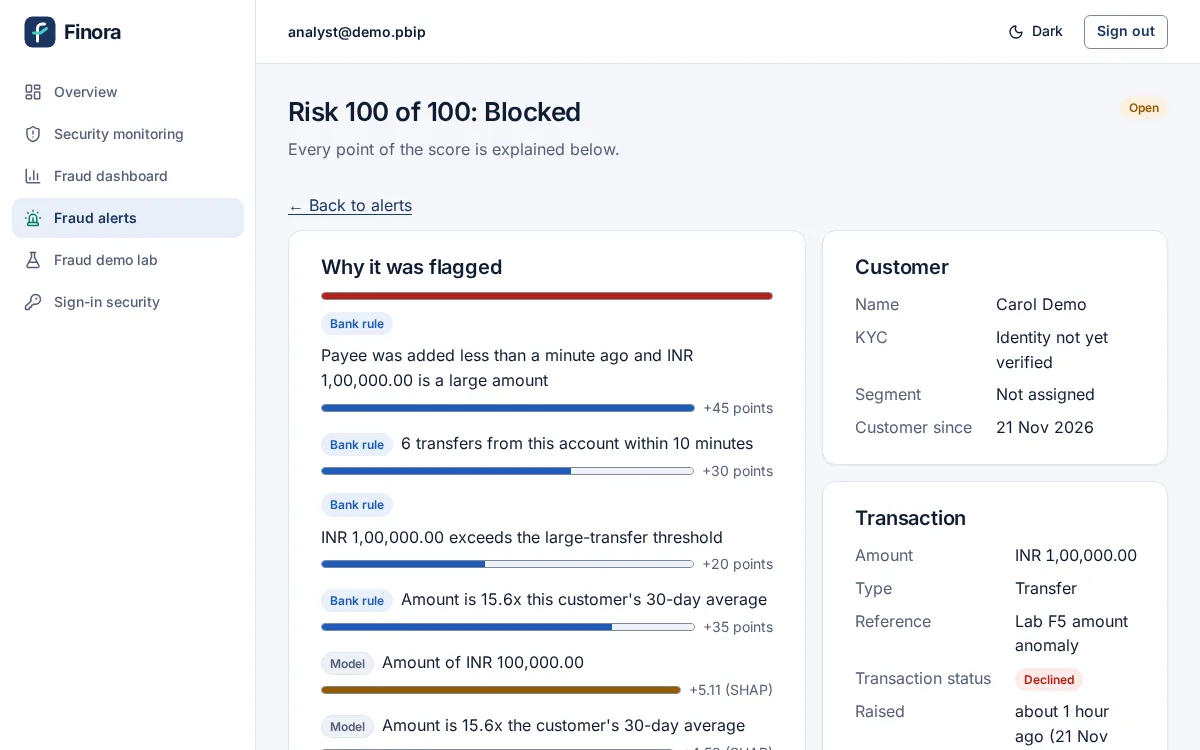
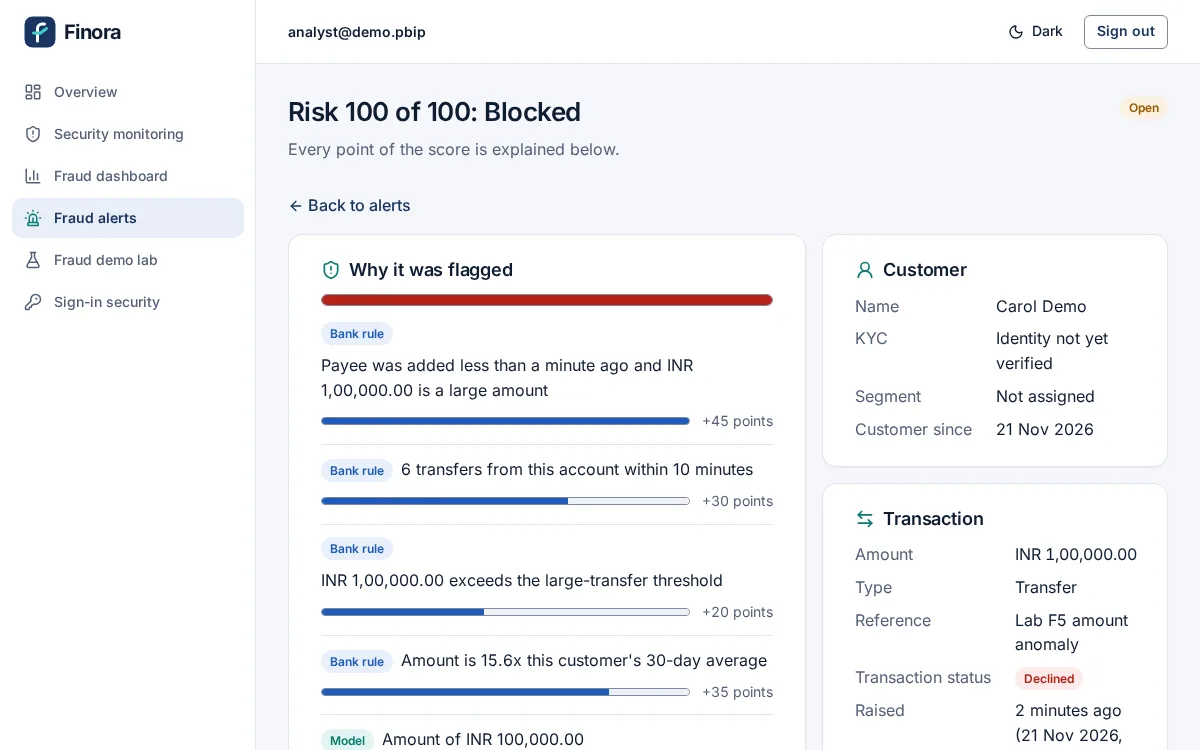
feat(web): Finora v1.2.0 polish: after screenshots, landing images on the final UI, accessibility fix, release notes

diff --git a/demo/record/capture-screens.ts b/demo/record/capture-screens.ts
@@ -248,8 +248,10 @@ test("fraud analyst pages", async ({ page }) => {
       then: async (p) => {
         await p.getByRole("button", { name: "All", exact: true }).click(); // the open queue may be empty
         await quiet(p);
+        // Wait for the list to settle: a table of alerts, or the empty state (then the list is shown).
+        await p.getByRole("table").or(p.getByText("No alerts.")).first().waitFor();
         const first = p.getByRole("table").getByRole("link").first();
-        if ((await first.count()) === 0) return; // an empty queue: the list screenshot says so
+        if ((await first.count()) === 0) return;
         await first.click();
         await expect(p.getByRole("heading", { level: 1, name: /^Risk \d+ of 100/ })).toBeVisible();
         await settle(p);

diff --git a/apps/web/src/pages/staff/SecurityMonitoring.tsx b/apps/web/src/pages/staff/SecurityMonitoring.tsx
@@ -186,7 +186,7 @@ export function HighRiskCustomersPanel({
                     {c.alert_id ? (
                       <Link
                         to={`/staff/fraud/${c.alert_id}`}
-                        aria-label={`Open the alert for customer ${c.customer_id.slice(0, 8)}`}
+                        aria-label={`${c.open_alerts > 0 ? "Review" : "View"}: Open the alert for customer ${c.customer_id.slice(0, 8)}`}
                       >
                         {c.open_alerts > 0 ? "Review" : "View"}
                       </Link>

diff --git a/docs/design/ui-redesign-progress.md b/docs/design/ui-redesign-progress.md
@@ -31,7 +31,7 @@ system is in [ui-design-system.md](ui-design-system.md).
 | 3 Customer pages | done | #525 |
 | 4 Staff pages | done | #523 |
 | 4b Backend display text | done | #519 |
-| 5 Polish, accessibility, `make check`, docs, v1.2.0, deploy | - | - |
+| 5 Polish, accessibility, `make check`, docs, v1.2.0, deploy | in progress | this PR |
 | Re-record walkthrough, demo cut, slide screenshots | - | - |
 
 ## Phase 0 (21 Nov 2026)
@@ -117,6 +117,31 @@ only) and merged in turn, updating the other branches by merging `main`.
   the rules the CSS-reading tests name stay where the tests read them.
 - **Selectors the recorders and E2E rely on** were kept, including the secret blur targets
   (`code.secret`, `ul.recovery-codes`, `a[href^="otpauth:"]`) so MFA keys never reach a recording.
+
+## Phase 5 (21 Nov 2026): polish, accessibility, docs
+
+- **After screenshots:** `docs/design/screenshots/after/`, the same 32 screens x 2 widths and file names as the
+  before set, taken on a freshly seeded stack built from `main` with the fraud lab's F1, F2 and F5 run first.
+  The landing page's product screenshots were re-taken on the final UI ("landing assets").
+- **axe-core 4.14 (WCAG 2.0/2.1 A and AA rules), 31 views x light and dark = 62 scans** on the local stack (axe
+  installed in a scratch folder, not a project dependency): **no colour-contrast violations** in either theme;
+  30 scans clean. One rule, *label in name* (2.5.3), was reported on four controls:
+  - security-monitoring "Review"/"View" links (named "Open the alert for customer ..."): **fixed**, the name now
+    starts with the visible word (the test's name match still holds);
+  - **notification bell:** the only visible text is the unread count, which the name contains ("Notifications
+    (2 unread)"); axe's heuristic still flags it. Kept: the name and the badge text are asserted by tests;
+  - **"Ask Finora" button** (named "Ask the Finora assistant") and the fraud lab's **"Run scenario"** buttons (named
+    "Run F1 APP scam" ...): **not changed.** Fixing them changes an accessible name or a visible text that unit
+    tests, the E2E journey and the demo recorder assert, which the owner's rule 3 forbids without a decision. Open
+    for the owner: rename the assistant button to "Ask Finora" and the lab buttons' text to "Run F1"..., with the
+    matching test updates.
+- **Keyboard and focus:** every control keeps a visible 2 px teal focus ring; the skip link, the Menu button, Esc on
+  the menu, drawer and dialogs, and focus-to-heading after navigation are unchanged (E2E `shell.spec.ts`).
+- **360 px:** every page in the after set at 360 px has no horizontal page scroll; wide tables scroll inside their
+  card.
+- **Docs:** README product name and latest release, the user manual (customer, staff and compliance guides) renamed
+  to Finora; CHANGELOG `[1.2.0]` and `docs/release/v1.2.0.md`. The user-manual screenshots are replaced from the
+  walkthrough re-recording after v1.2.0.
 
 ## Tests changed
 

diff --git a/CHANGELOG.md b/CHANGELOG.md
@@ -1,8 +1,45 @@
 # Changelog
 
-All notable changes to PBIP are listed here. The format follows [Keep a Changelog](https://keepachangelog.com/en/1.1.0/)
+All notable changes to Finora (repository PBIP) are listed here. The format follows [Keep a Changelog](https://keepachangelog.com/en/1.1.0/)
 and the project uses [Semantic Versioning](https://semver.org/). Numbers in brackets are the pull requests that made
 each change. The plain-language summaries are in [`docs/release/`](docs/release/).
+
+## [1.2.0] - 2026-11-21
+
+The product is now **Finora** ("Smart personal banking", assistant "Ask Finora"), with a redesigned web app. The
+summary is in [`docs/release/v1.2.0.md`](docs/release/v1.2.0.md); the design system, the decisions, every test changed
+and every backend file whose text changed are in
+[`docs/design/ui-redesign-progress.md`](docs/design/ui-redesign-progress.md).
+
+### Changed
+
+- **Brand and design system:** Finora name, original SVG logo and favicon, new tokens (navy primary, one teal accent,
+  status colours with soft backgrounds; contrast checked in light and dark), Inter self-hosted, lucide icons, cards,
+  stat tiles, segmented filters and a new app shell with sidebar navigation for customers and staff; light theme by
+  default with the dark toggle kept (ADR-0063, #518, #521).
+- **Every page redesigned:** sign-in, registration and MFA (#524); customer accounts, payments, payees, bills,
+  scheduled transfers, statements, insights, loans, wealth and recommendations (#525); the staff console (alerts,
+  dashboards, lab, monitoring, compliance, audit log, customer insights, behavioural analytics, administration)
+  (#523). Markup, styling and display text only: routes, hooks, API calls, validation and the auth flow are
+  unchanged.
+- **User-facing backend text** says Finora: statement PDF header and title, TOTP issuer label, assistant prompts,
+  refusals and FAQ answers, OpenAPI title and descriptions (string literals only, #519).
+- **Docs:** README and user manual use the product name Finora; the code, repository, domain, packages and service
+  names keep PBIP.
+
+### Added
+
+- **Landing page** at `/` for signed-out visitors, with the sign-in form, real product screenshots and figures only
+  from the test and model reports (#524).
+- **Demo tooling:** before/after page screenshots (`demo/record/capture-screens.ts`), user-manual stills from the
+  walkthrough, the 15-clip demo-cut builder and the slide capture.
+
+### Fixed
+
+- **CI:** the backup drill runs `pg_dump`/`pg_restore` inside the PostgreSQL 16 service container (the runner's newer
+  client wrote a setting 16 rejects); dnspython 2.9.2 and tornado 6.6.1 for CVE-2026-128089 and CVE-2026-126347
+  (#520).
+- **Accessibility:** the security-monitoring alert links' accessible names start with their visible text.
 
 ## [1.1.4] - 2026-11-08
 

diff --git a/docs/release/v1.2.0.md b/docs/release/v1.2.0.md
@@ -1,0 +1,26 @@
+# Finora v1.2.0 release notes
+
+Tagged `v1.2.0` on 21 November 2026 from `main`; the tagged commit and its checks are listed on the
+[GitHub release](https://github.com/rachitst/pbip/releases/tag/v1.2.0). The full list of changes is in
+[`CHANGELOG.md`](../../CHANGELOG.md); the design work, every test changed and every backend file whose text changed
+are in [`docs/design/ui-redesign-progress.md`](../design/ui-redesign-progress.md).
+
+## In plain language
+
+- **A new name: Finora.** The bank is now called Finora ("Smart personal banking"), and the assistant is
+  **Ask Finora**. It has its own logo. The project's code and repository keep the name PBIP.
+- **A new look on every page.** Cleaner and calmer: white and soft-grey pages, navy text, one teal highlight, clear
+  colours for success, warnings and problems, a modern typeface and a side menu with icons. It starts in the light
+  theme; the dark theme is still one click away.
+- **A front page.** Visitors who are not signed in see what Finora does, with real screenshots, and can sign in or
+  open an account from the same page. It says plainly that this is a simulated bank built for a student capstone
+  project and that no real money moves.
+- **Nothing else changes.** Accounts, payments, fraud checks, the assistant's answers and the staff tools work exactly
+  as in v1.1.4; only how they look and the product name changed.
+
+## Upgrade notes
+
+- No database migration (the schema stays at `0031`) and no configuration change.
+- Authenticator apps enrolled before this release keep their old "PBIP" label; their codes still work. New
+  enrolments show "Finora".
+- Statements generated from now on carry the Finora header; the download file name keeps `pbip-statement-...`.

diff --git a/README.md b/README.md
@@ -125,7 +125,8 @@ The live demo script and its fallback plan are in [`demo/demo-script.md`](demo/d
 
 ## Releases
 
-The latest release is **[v1.1.4](https://github.com/rachitst/pbip/releases/tag/v1.1.4)** (8 November 2026): deploys
+The latest release is **[v1.2.0](https://github.com/rachitst/pbip/releases/tag/v1.2.0)** (21 November 2026): the
+product renamed **Finora** with a redesigned web app and a landing page, on top of v1.1.4's deploys
 that replace the API rolling, so it keeps answering (v1.1.3, with v1.1.4's fix for a retired replica's address), on
 top of v1.1.2's staging over HTTPS, the trained models on the
 staging host and a faster assistant fallback, v1.1.1's staging fixes,
